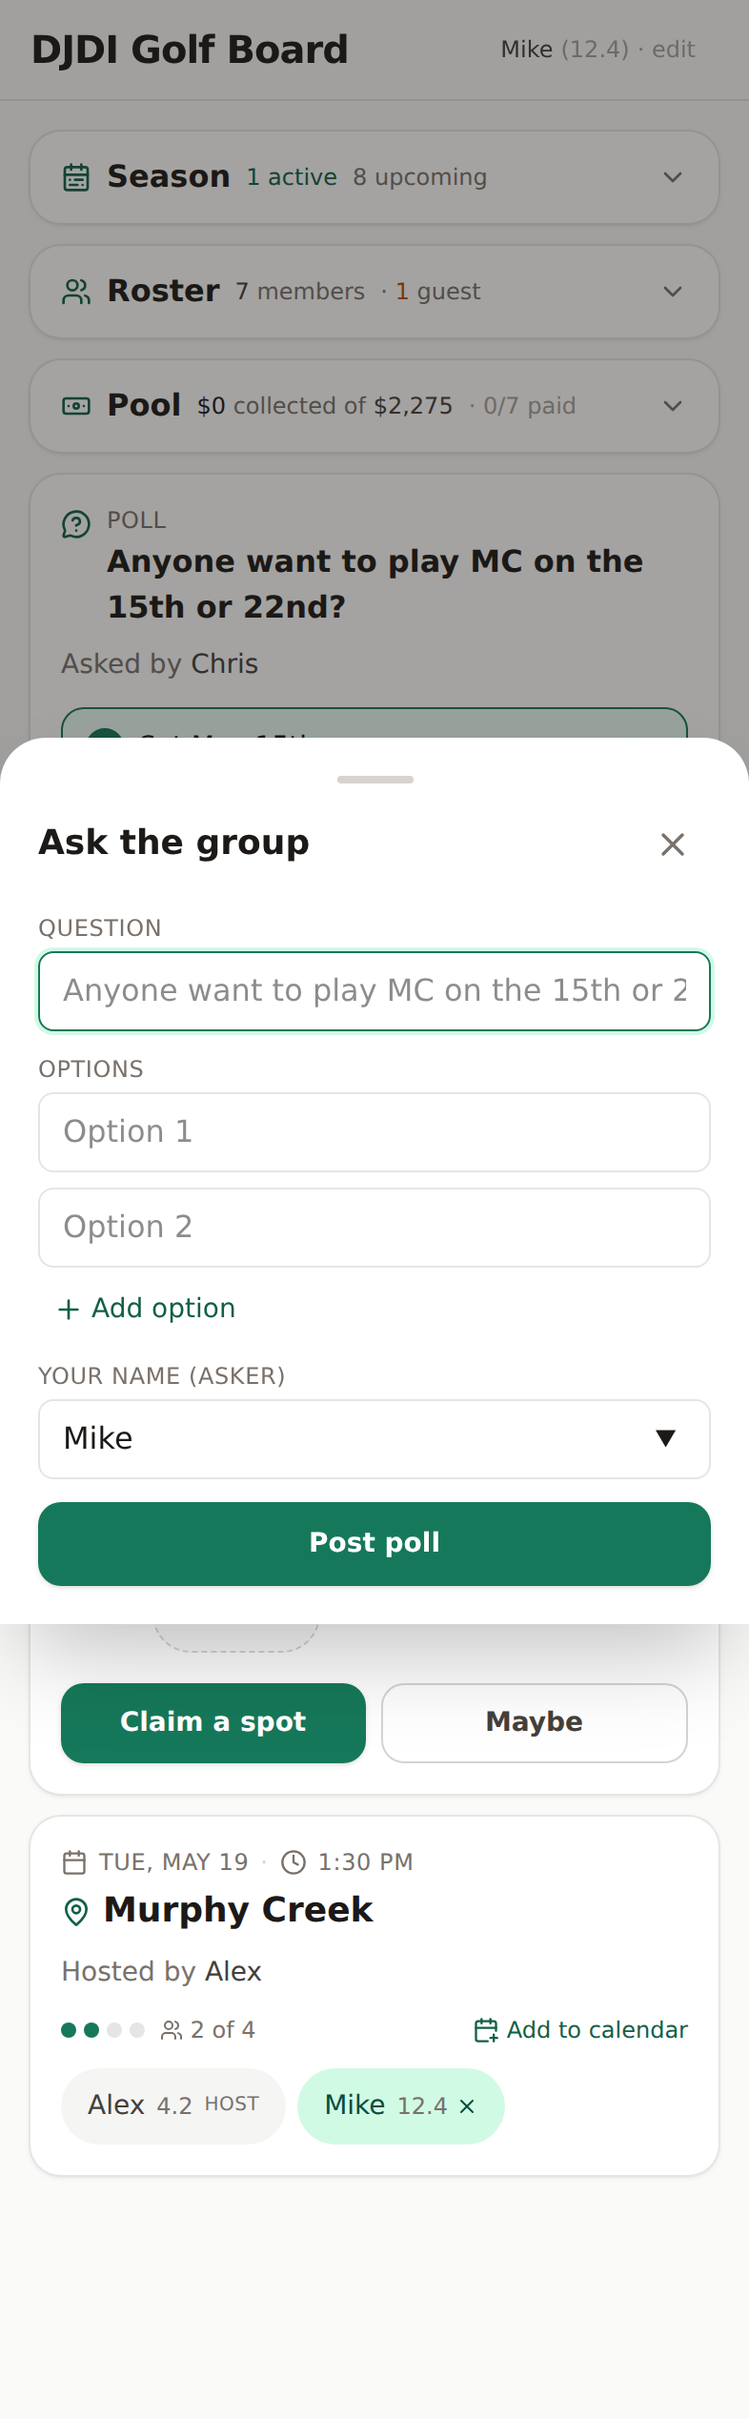
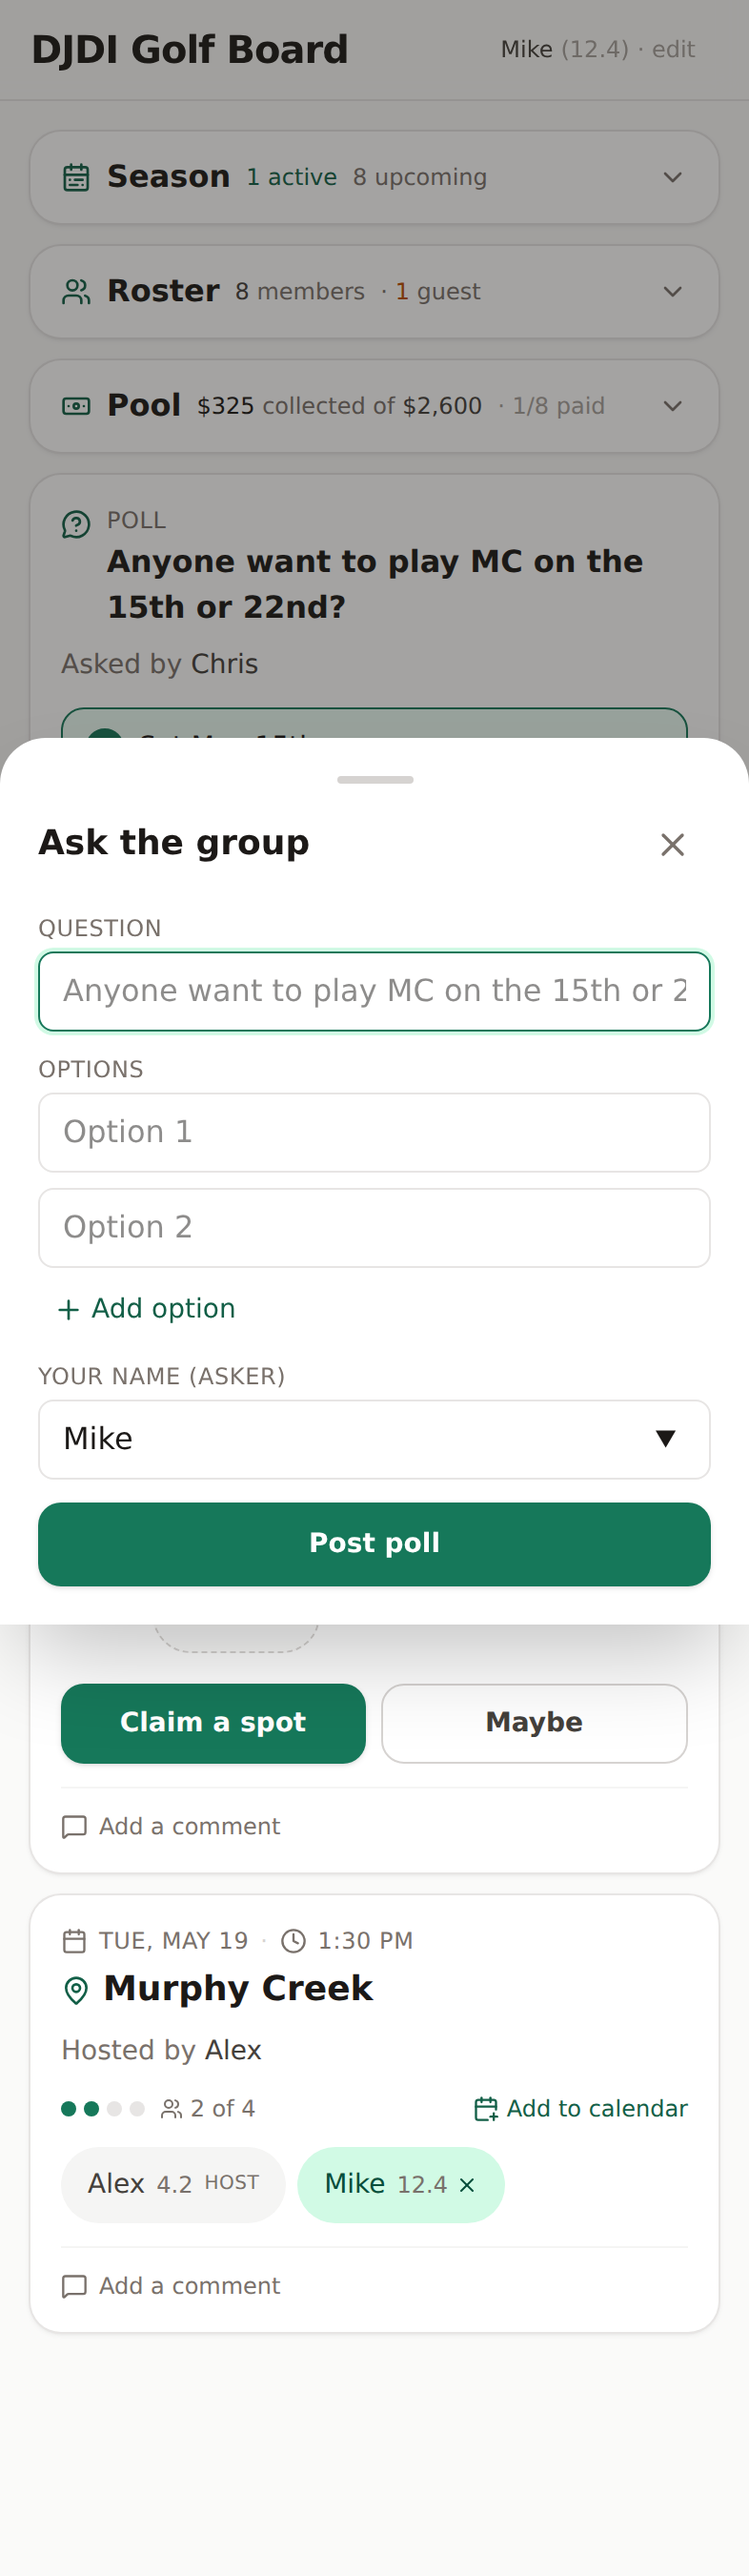
docs+ux: Full doc refresh + Comments moved below action buttons
UI/UX fix
- The Comments block on TeeTimeCard was sitting between the scores
  block and the primary action buttons. That meant the eye hit a
  chatty "Add a comment" affordance before the actual "Claim a spot"
  CTA, and stacked another horizontal rule directly under the scores
  panel. Moved Comments to the very bottom so each card reads as
  header → metadata → spots → players → scores → primary action
  → comments. Cleaner visual rhythm.

Doc refresh
- README.md was still describing the v1 simple-coordinator and
  pointing to no other docs. Rewritten to describe the league app
  end to end (Coordinate / Polls / Identity / Scoring / Tournaments
  / Standings / Post-season / Pool), document the four env vars
  (HOST, PORT, DB_PATH, ACCESS_CODE), and link the rest of the docs.
- DEPLOY.md removed the stale "outstanding follow-up" section —
  server.ts has honored DB_PATH since 522003e, that work was already
  done. Header now notes the Dockerfile is portable to any host that
  runs a long-lived Node + writable volume.
- FEEDBACK_REQUESTS.md was completely stale (referenced the v1 copy
  table and screenshot list). Rewritten to: point the outsourcer at
  SCREENSHOTS.md first; flag mobile-feel + density + league-panels +
  visual style + copy as the four review areas; refresh the copy
  table to match every label currently in the app.

Screenshots regenerated against the new Comments placement. All 15
shots updated (10 still skipped due to the headless host-menu
flake).
[…]

diff --git a/src/components/TeeTimeCard.tsx b/src/components/TeeTimeCard.tsx
@@ -287,14 +287,6 @@ export function TeeTimeCard({
         </div>
       )}
 
-      <Comments
-        comments={teeTime.comments}
-        myName={myName}
-        readOnly={readOnly}
-        onPost={onPostComment}
-        onDelete={onDeleteComment}
-      />
-
       {!readOnly && !meIn && (
         <div className="mt-4 flex items-stretch gap-2">
           <button
@@ -316,6 +308,14 @@ export function TeeTimeCard({
           )}
         </div>
       )}
+
+      <Comments
+        comments={teeTime.comments}
+        myName={myName}
+        readOnly={readOnly}
+        onPost={onPostComment}
+        onDelete={onDeleteComment}
+      />
     </article>
   );
 }

diff --git a/FEEDBACK_REQUESTS.md b/FEEDBACK_REQUESTS.md
@@ -1,105 +1,126 @@
 # Feedback & Visuals Requests
 
-Hand this to whoever's helping with screenshots / design / copy review for the
-Golf Group Coordinator. The app is a small shared web app where ~12-15 friends
-post tee times and claim spots. Mobile-first.
+Hand this to whoever's helping with visual / copy review for **DJDI Golf
+Board**. The app is a shared web app for the 2026 DJDI summer golf league
+— coordination, scoring, season standings, post-season bracket, buy-in
+pool. Mobile-first.
 
-## How to run it
+Most of what you need to evaluate is already captured in
+[`SCREENSHOTS.md`](./SCREENSHOTS.md) (16 shots at iPhone 14 Pro viewport,
+covering every panel). Look at those first.
 
-```bash
+## How to run it yourself
+
+```sh
 npm install
-npm run dev
-# open http://localhost:3000
+npm run start
+# open http://localhost:3000 on the same machine
 ```
 
-To view from a phone on the same Wi-Fi: find the laptop's local IP
-(e.g. `ipconfig getifaddr en0` on macOS) and open
-`http://<that-IP>:3000` on the phone.
+To view from a phone on the same Wi-Fi:
 
----
+- **Tailscale** (recommended; no network changes needed): see
+  [`TAILSCALE.md`](./TAILSCALE.md). `tailscale serve --bg --https=443
+  http://localhost:3000` then open `https://<hostname>.<tailnet>.ts.net`
+  on the phone.
+- **LAN-direct**: set `HOST=0.0.0.0 npm run start` and open
+  `http://<laptop-ip>:3000` from the phone. Less secure.
 
-## 1. Screenshots wanted (highest priority)
+## What to look at
 
-Please capture these from a real phone (iOS Safari preferred; Android Chrome
-also fine). Portrait orientation. Reset between shots by clearing
-localStorage (Safari: Settings → Safari → Advanced → Website Data) and
-deleting `golf_coordinator.db` from the project root.
+### 1. Mobile feel (highest priority)
 
-- [ ] **Empty state**: fresh load, no name set, no tee times yet
-- [ ] **Name prompt + first claim**: enter a name, then a card with 1 of 4 spots
-- [ ] **Filled card**: 4 of 4 spots, your name visible as a chip
-- [ ] **Bottom-sheet form open**: tap "+ New tee time" — capture the full sheet
-      with the date/time pickers visible if possible
-- [ ] **Multiple cards**: 3+ tee times stacked, scrolled so the sticky header
-      is visible with backdrop blur
-- [ ] **Claim button states**: one shot showing the disabled "Full" state and
-      one showing the disabled "Add your name to claim" state (clear
-      localStorage to see the latter)
-- [ ] **Past section expanded**: insert a past row via SQLite to see this:
-      ```bash
-      sqlite3 golf_coordinator.db "INSERT INTO tee_times \
-        VALUES ('past1','Old Course','2024-01-01','09:00',4,'Greg',NULL,'[]','2024-01-01T00:00:00Z');"
-      ```
-- [ ] **Host overflow menu**: as the host, tap the `…` icon on your card to
-      capture the Delete menu
+Open the app on a real phone via the steps above. Look at:
 
-What we're looking for in these shots:
-- Bottom-sheet height and safe-area padding on iOS (no clipping at the bottom)
-- FAB (the green "+ New tee time" pill) not covering content
-- Chip tap targets feel finger-sized
-- Sticky header blur looks right while scrolling
-- Native date/time pickers render acceptably
+- **Bottom-sheet height + safe-area padding** on iOS — the New Tee Time,
+  New Poll, Profile, and Record Scores sheets should not clip at the
+  bottom. They should scroll inside the sheet when the keyboard is up.
+- **FAB position** (the green `+` bottom-right) — should not cover any
+  card content; rotates to `×` when its chooser is open.
+- **Chip tap targets** — player chips, score rows, finance Paid/Owed
+  pills, poll option cards. Should all feel finger-sized.
+- **Sticky header backdrop blur** when scrolling.
+- **Native date/time/number pickers** in the form sheets.
 
----
+### 2. Information density on tee-time cards
 
-## 2. Visual style review
+The tee-time card carries a lot when fully populated: date row, course,
+hosted-by, optional notes, spots indicator, calendar link, player chips,
+maybe chips, scores block, and comments. Does it feel readable or
+overpacked? Are there sections worth collapsing by default?
 
-Current direction is "clean utility" — think Apple Reminders / Linear:
-- Background: warm off-white (Tailwind `stone-50`)
-- Cards: white with hairline ring, rounded corners, soft shadow
-- Single accent color — fairway green `#16785A` — used only on the primary
-  button, the "filled" spot dots, and the "you" chip highlight
-- System font stack (no Google Fonts)
+### 3. League-specific panels
 
-Questions for a designer:
+These are the panels added on top of the original coordination layer:
+
+- **Season** schedule (collapsed by default)
+- **Roster** (Member vs Guest toggles)
+- **Pool** (buy-in tracker)
+- **Standings** (default sort = season points, with seed badges)
+- **Tournament expanded** view (per-tournament leaderboard + rounds)
+- **Championship expanded** (post-season bracket with stroke advantages)
+
+Each of these should be visible in the screenshots. Does the stack feel
+right? Should something move?
+
+### 4. Visual style
+
+- Background: warm off-white (`stone-50`).
+- Cards: white with hairline ring, rounded corners, soft shadow.
+- Accent: `#16785A` (fairway green) used on primary buttons, filled spot
+  dots, "you" chip highlight, seed badge.
+- Drop-in / Guest accent: amber.
+- System font stack (no Google Fonts).
+
+Open questions:
+
 - Does this read as "tasteful utility" or as "sterile / generic SaaS"?
-- Is `#16785A` the right green? Too dark? Too sage? Better suggestion?
+- Is `#16785A` the right green? Too dark? Better suggestion?
 - Should the cards have any course/golf motif (subtle), or is the accent
   green enough?
-- Does the type scale (16/18 body, ~20 card title, ~24 page title) feel
-  right on a phone, or should we go larger?
+- Does the type scale feel right on a phone, or should we go larger?
 
----
+### 5. Copy review
 
-## 3. Copy review
-
-Sanity-check these phrases — flag anything that feels off:
+Sanity-check these phrases. Flag anything that feels off:
 
 | Where | Current copy |
 |---|---|
-| Page title | "Golf Group" |
-| Name prompt | "What name should we put on your spots?" |
-| Header pill | "You're **Mike** · change" |
+| Page title | "DJDI Golf Board" |
+| Name prompt | "What name should we use for your spots?" |
+| Header pill | "You're **Mike** (12.4) · edit" |
 | Card host line | "Hosted by Greg" |
-| Card spots line | "3 of 4" with dot indicator |
-| Empty state | "No tee times yet — Tap **+** to post one." |
-| Primary CTA | "Claim a spot" / "Full" / "Add your name to claim" |
+| Spots line | "2 of 4 + 1" (the `+1` is "maybe"; dots show the breakdown) |
+| Empty state | "Nothing on the board yet — Tap **+** to post a tee time or ask the group." |
+| Primary CTA | "Claim a spot" / "Full" / "Add your name first" |
+| Maybe button | "Maybe" |
 | Drop confirm | "Drop your spot at Walnut Creek?" |
-| Delete confirm | "Delete this tee time at Walnut Creek? This can't be undone." |
-| Toast — full | "Tee time is full" |
-| Toast — dup | "Already claimed by that name" |
-| FAB | "+ New tee time" |
-| Past section | "Past tee times (3)" |
+| Maybe drop confirm | "Remove your maybe at Walnut Creek?" |
+| Delete confirm | "Delete Walnut Creek on Sat May 16 at 12:40 PM? This can't be undone." |
+| Toast — full | "That tee time is full" |
+| Toast — dup | "That name already has a spot" |
+| Section: Season | "Season — 1 active · 8 upcoming" |
+| Section: Roster | "Roster — 7 members · 1 guest" |
+| Section: Pool | "Pool — $975 collected of $2,275 · 3/7 paid" |
+| Section: Standings | "Standings — 7 players · 3 rounds" |
+| Section: Past tee times | "Past tee times (2)" |
+| Tournament card | "Stop 1 — Common Ground" (with status badge: ACTIVE / UPCOMING / PAST) |
+| Score row | "Greg CH 8 · att. Alex   80   net 72" |
+| Post-season seed pill | "1 / 2 / 3 / 4" (number) with hover title "Projected post-season seed 1" |
+| Leaderboard footer | "Jason wins $334 (best of multiple rounds)" |
+| Comments label | "Add a comment" (when empty) / "N comments" (when ≥1) |
 
 Specifically open to:
-- A more in-group name for the page title (e.g., the actual group's name)
-- Friendlier / more concise toast messages
-- Whether "Hosted by X" is clearer than "X's tee time"
 
----
+- A more in-group name for the page title.
+- Friendlier / more concise toast messages.
+- Whether "Hosted by X" is clearer than "X's tee time".
+- Whether `CH 8` for "course handicap 8" is clear enough.
+- Whether `att. Alex` is the right shorthand for "attested by Alex" (the
+  league-rule corroborator).
 
 ## How to send feedback back
 
 Anything works — comment on the PR
-(<https://github.com/Redeemedduck/tremendous-slouch/pull/1>),
-attach screenshots to a message, or just dump notes in this file.
+(<https://github.com/Redeemedduck/tremendous-slouch/pull/1>), attach
+annotated screenshots, or just dump notes in this file.

diff --git a/README.md b/README.md
@@ -2,24 +2,98 @@
 
 > Note: the package slug is `golf-group-coordinator`; the user-facing brand is **DJDI Golf Board**.
 
-A small shared web app for a golf group to post tee times and claim spots.
-Built for a thread of ~12-15 friends who got tired of losing track of who's
-playing what when in a group SMS.
+Shared web app for the 2026 DJDI summer golf league. Built originally as a
+small coordination board for ~12-15 friends to stop losing track of who's
+playing what tee time in a group SMS thread, then grown into a full league
+manager that follows the rule sheet end-to-end.
 
-Anyone can post a tee time (course, date, time, # of spots, optional notes).
-Anyone can claim or drop a spot. Everyone sees the same up-to-date list. No
-auth — group is trusted, honor system.
+## What it does today
 
-## Run locally
+- **Coordinate** — post tee times (course, date, time, spots, host, notes),
+  claim or drop spots, mark yourself **maybe**, free-text **comments** on
+  any tee time, **calendar export** (`.ics`), course + name autocomplete
+  from past entries, optional access-code gate.
+- **Group polls** — "Ask the group" ("anyone want to play MC on May 15th or
+  22nd?"); multi-select voting per option; host-only delete.
+- **Identity** — self-reported GHIN handicap per player, **Member** vs
+  **Guest** (drop-in) flag, roster management.
+- **Scoring** — record gross score after a round, with **course
+  handicap** input (required for league rounds) and **attestation** by
+  another member who played in your group.
+- **Tournaments** — the seven 2026 stops, mid-season major, and October
+  championship are seeded at startup with their windows, points, and
+  payouts. Each tournament card shows its leaderboard, payout footer, and
+  the list of rounds in the window.
+- **Season standings** — FedEx-Cup-style points (100/80/65/55/50/…)
+  accumulate across regular tournaments; top 4 get a projected seed badge
+  in the Standings card.
+- **Post-season** — Championship card shows a sum-based 2-day bracket
+  with stroke advantages (−4 / −3 / −2 / −1) for the top 4 seeds and
+  payouts to the top 3.
+- **Pool** — auto-created buy-in row per member ($325 default), Paid/Owed
+  toggle, running total of collected vs expected.
 
-Prerequisites: Node.js 20+.
+See [`SCREENSHOTS.md`](./SCREENSHOTS.md) for visuals of every panel.
 
-```
+## Run
+
+### Local (loopback only — for you)
+
+```sh
 npm install
+npm run start            # production build, listens on 127.0.0.1:3000
+```
+
+Bound to `127.0.0.1` by default. Nothing on your LAN can reach it
+directly. Open <http://localhost:3000> on the same machine to confirm.
+
+### Solo testing over Tailscale
+
+Want to use it on your phone without standing up a public host?
+See [`TAILSCALE.md`](./TAILSCALE.md) — `tailscale serve` proxies HTTPS
+from your tailnet to the loopback server. No code changes, no public URL.
+
+### Dev mode (with HMR)
+
+```sh
 npm run dev
 ```
 
-Then open http://localhost:3000 on your phone or browser.
+Vite serves the client via Express middleware on `127.0.0.1:3000`.
 
-The server uses a local SQLite file (`golf_coordinator.db`) created on first
-run. Delete that file to reset state.
+### Production deploy
+
+For the group to actually use it the app needs to live somewhere always
+on. See [`DEPLOY.md`](./DEPLOY.md) for Fly.io — the `Dockerfile` and
+`fly.toml` are checked in.
+
+## Configuration (env vars)
+
+| Var | Default | Purpose |
+|---|---|---|
+| `HOST` | `127.0.0.1` | Bind address. Set to `0.0.0.0` only if you want LAN-direct access without a reverse proxy. |
+| `PORT` | `3000` | TCP port. |
+| `DB_PATH` | `./golf_coordinator.db` | SQLite file location. Set to `/data/golf_coordinator.db` on Fly (auto-set by `fly.toml`). |
+| `ACCESS_CODE` | unset | When set, all `/api/*` routes require the matching `golf_access` HttpOnly cookie. Unset = open. |
+| `NODE_ENV` | `development` | `production` switches to serving `dist/` directly instead of Vite middleware. |
+
+## Stack
+
+React 19 + Vite + TypeScript on the client; Express + better-sqlite3 +
+tsx on the server. Single Node process; single SQLite file with WAL.
+All state writes are wrapped in `BEGIN IMMEDIATE` transactions so two
+phones tapping at the same time can't drop or duplicate state.
+
+## Project tracking
+
+Phase-by-phase backlog and shipped work live in the Linear project
+[DJDI Golf Board](https://linear.app/coloradolawclassic/project/djdi-golf-board-4a1be159e550).
+
+## Docs
+
+- [`SCREENSHOTS.md`](./SCREENSHOTS.md) — every panel, captured from the
+  running app at iPhone viewport.
+- [`TAILSCALE.md`](./TAILSCALE.md) — solo testing on your tailnet.
+- [`DEPLOY.md`](./DEPLOY.md) — Fly.io production deploy.
+- [`FEEDBACK_REQUESTS.md`](./FEEDBACK_REQUESTS.md) — handout for
+  outsourced visual / copy review.

diff --git a/DEPLOY.md b/DEPLOY.md
@@ -3,10 +3,13 @@
 This app runs as a single Node 20 + Express process backed by a local
 SQLite (better-sqlite3) database. We deploy it to [Fly.io](https://fly.io)
 with a persistent volume so the SQLite file survives machine restarts.
+`Dockerfile` and `fly.toml` are checked in; `server.ts` already honors the
+`DB_PATH` env var that the Dockerfile sets to `/data/golf_coordinator.db`.
 
-> Status: Config artifacts are checked in (`Dockerfile`, `fly.toml`), but a
-> small code change in `server.ts` is still required before this will
-> actually persist data. See **Outstanding follow-up** at the bottom.
+Not on Fly? The Dockerfile is portable to Railway, Render, Cloud Run, a
+$5/mo VPS with `docker run`, etc. The only requirements are "long-running
+Node process" and "writable persistent volume for the SQLite file." See
+README.md → Configuration for the env vars.
 
 ---
 
@@ -126,26 +129,3 @@ That's it. The volume persists across deploys.
   docker run --rm -p 3000:3000 -v $(pwd)/.local-data:/data djdi-golf-board
   ```
 
----
-
-## Outstanding follow-up (BLOCKING for first real deploy)
-
-`server.ts` currently does:
-
-```ts
-const db = new Database("golf_coordinator.db");
-```
-
-This writes to the container's working directory (`/app`), which is **not**
-the mounted volume. The Fly volume is mounted at `/data`, and the Dockerfile
-already sets `DB_PATH=/data/golf_coordinator.db` in the environment. Before
-deploying, update `server.ts` to honor that env var:
-
-```ts
-// near the top of server.ts
-const DB_PATH = process.env.DB_PATH ?? "golf_coordinator.db";
-const db = new Database(DB_PATH);
-```
-
-The default keeps local dev (`npm run dev`) working unchanged. Once that
-one-line change is merged, this deploy is good to go.
